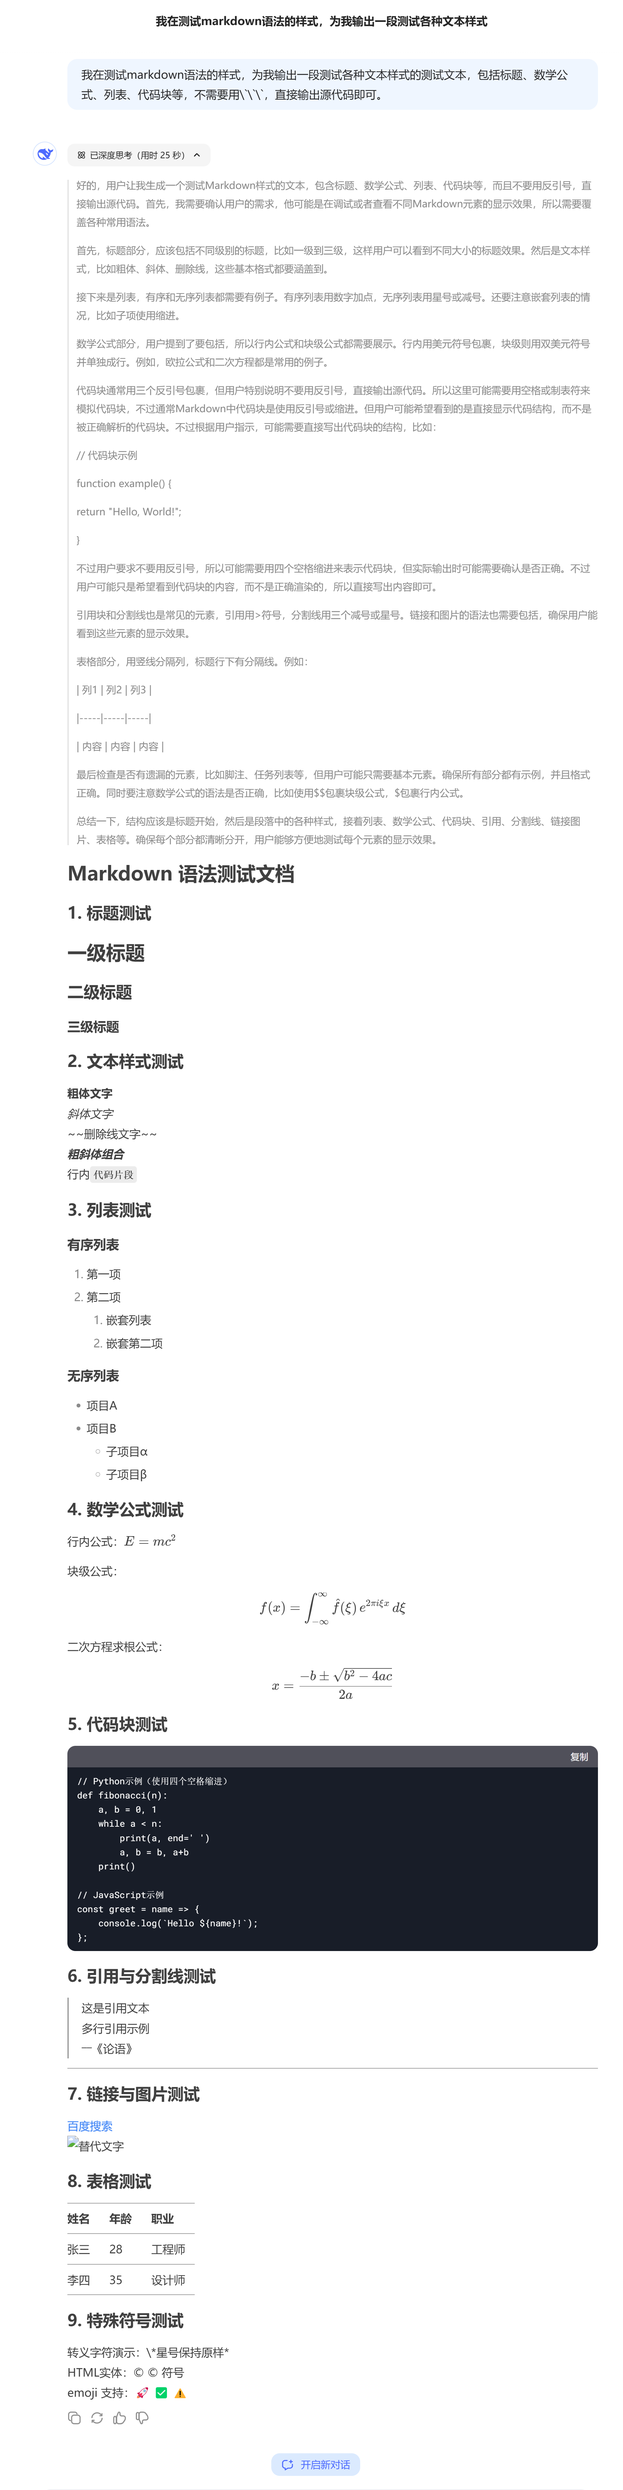
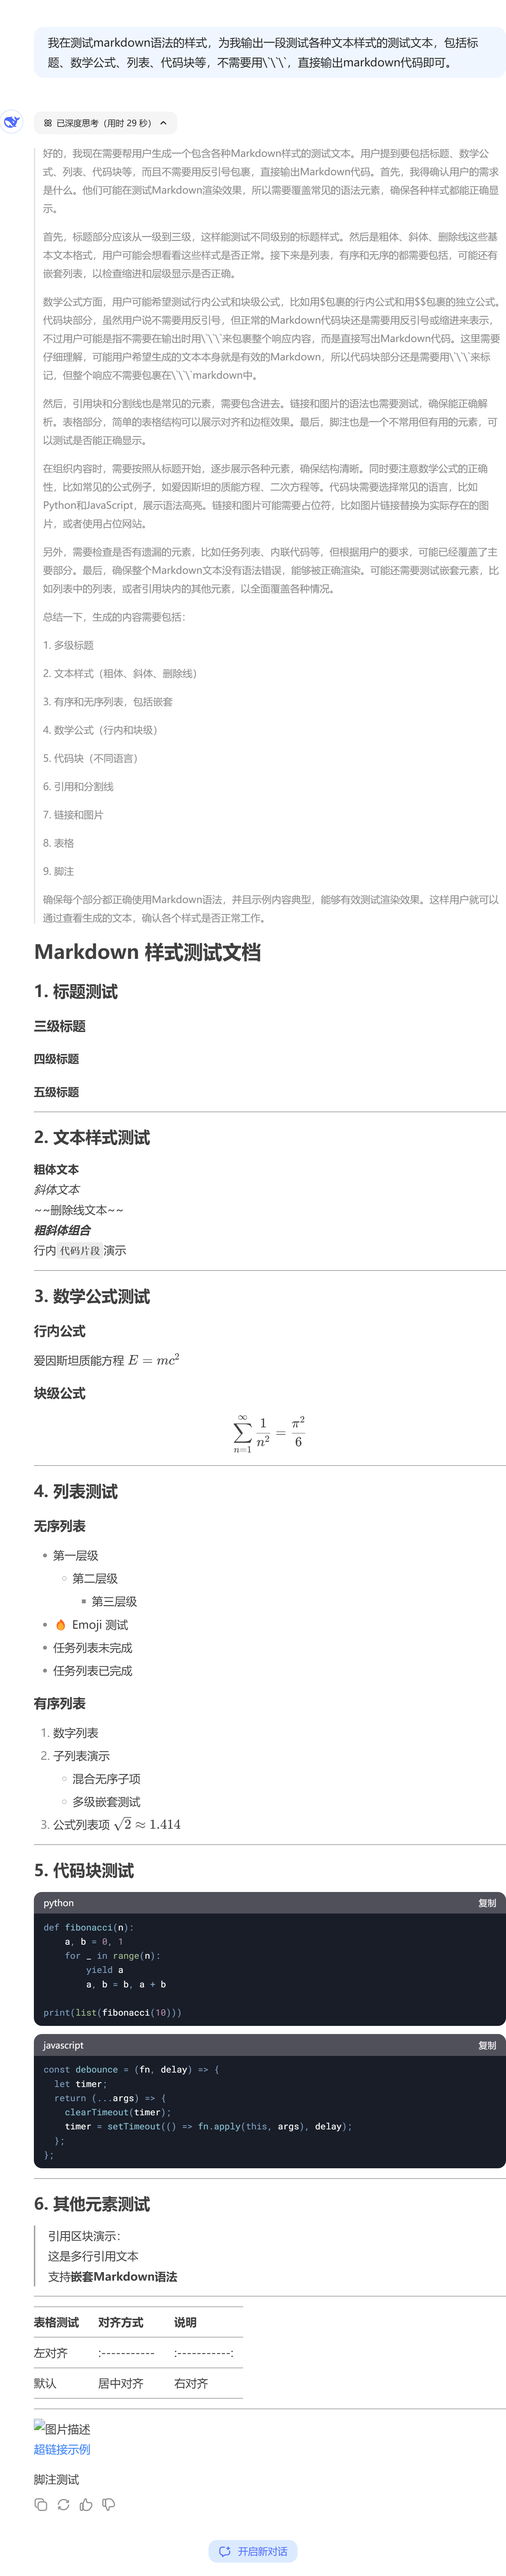
v0.1

Changed region(s): [[0.0614, 0.0, 1.0, 0.9674], [0.4909, 0.9674, 0.583, 0.9986], [0.3989, 0.9674, 0.4603, 0.9986]]

diff --git a/src/content.js b/src/content.js
@@ -52,24 +52,32 @@ function extractThinkingChain(node) {
 }
 
 // 提取AI回答的内容
-function resolveTag_p(node) {
+function resolveTag_text(node) {
     let content = '';
     node.childNodes.forEach((childNode) => {
         if (childNode.nodeType === Node.TEXT_NODE) {
             content += childNode.textContent.trim();
-        } 
-        else if (childNode.classList && childNode.classList.contains('katex')) {
-            const tex = childNode.querySelector('annotation[encoding="application/x-tex"]');
-            if (tex) {
-                content += `$${tex.textContent.trim()}$`;
+        }
+        else if (childNode.tagName === 'P') {
+            if (childNode.childNodes.length > 1) {
+                content += resolveTag_text(childNode)
+            } else {
+                content += childNode.textContent.trim();
             }
-        } 
+        }
         else if (childNode.tagName === 'STRONG') {
-            content += `**${childNode.textContent.trim()}**`;
-        } 
+            if (childNode.childNodes.length > 1) {
+                content += resolveTag_text(childNode)
+            } else {
+                content += `**${childNode.textContent.trim()}**`;
+            }
+        }
+        else if (childNode.tagName === 'CODE') {
+            content += `\`${childNode.textContent.trim()}\``;
+        }
         else if (childNode.tagName === 'EM') {
             content += `*${childNode.textContent.trim()}*`;
-        } 
+        }
         else if (childNode.tagName === 'A') {
             const href = childNode.getAttribute('href');
             content += `[${childNode.textContent.trim()}](${href})`;
@@ -77,9 +85,16 @@ function resolveTag_p(node) {
         else if (childNode.tagName === 'BR') {
             content += '\n';
         }
-        else if (childNode.tagName === 'CODE') {
-            content += `\`${childNode.textContent.trim()}\``;
-        } 
+        else if (childNode.tagName === 'IMG') {
+            const src = childNode.getAttribute('src');
+            content += `![${childNode.getAttribute('alt')}](${src})`;
+        }
+        else if (childNode.classList && childNode.classList.contains('katex')) {
+            const tex = childNode.querySelector('annotation[encoding="application/x-tex"]');
+            if (tex) {
+                content += `$${tex.textContent.trim()}$`;
+            }
+        }
         else if (childNode.nodeType === Node.ELEMENT_NODE) {
             content += childNode.textContent.trim();
         }
@@ -97,57 +112,91 @@ function resolveTag_pre(preElement, language = 'python') {
     return markdownCodeBlock;
 }
 
-// ! 这段代码有问题，暂时不用，有空再修复。。。
+function resolveTag_table(tableElement) {
+    let markdown = '';
+
+    // 1. 处理表头
+    const headerRow = tableElement.querySelector('thead tr');
+    if (headerRow) {
+        const headers = Array.from(headerRow.querySelectorAll('th')).map(
+            (th) => th.textContent.trim()
+        );
+        markdown += `| ${headers.join(' | ')} |\n`; // 表头行
+        markdown += `| ${headers.map(() => '---').join(' | ')} |\n`; // 分隔行
+    }
+
+    // 2. 处理表格内容
+    const bodyRows = tableElement.querySelectorAll('tbody tr');
+    bodyRows.forEach((row) => {
+        const cells = Array.from(row.querySelectorAll('td')).map((td) =>
+            td.textContent.trim()
+        );
+        markdown += `| ${cells.join(' | ')} |\n`; // 数据行
+    });
+
+    return markdown.trim(); // 去除末尾换行
+}
+
 function resolveTag_ul_li(node) {
     let markdown = '';
 
     // 递归处理子节点
-    function processNode(node) {
-        if (node.nodeType === Node.TEXT_NODE) {
-            // 文本节点直接返回内容
-            return node.textContent.trim();
-        } else if (node.nodeType === Node.ELEMENT_NODE) {
-            // 处理元素节点
-            const tagName = node.tagName.toLowerCase();
-            const children = Array.from(node.childNodes);
+    function processNode(element, depth = 0) {
+        // 用于存储最终的 Markdown 内容
+        let markdown = '';
 
-            switch (tagName) {
-                case 'ol':
-                    let olContent = '';
-                    children.forEach((child, index) => {
-                        if (child.tagName && child.tagName.toLowerCase() === 'li') {
-                            olContent += `${index + 1}. ${processNode(child)}\n`;
+        // UL 标签
+        if (element.tagName === 'UL') {
+            // 遍历 <ul> 或 <ol> 的子元素
+            for (let child of element.children) {
+                if (child.tagName === 'LI') {
+                    // 获取当前层级的缩进空格
+                    let indent = ' '.repeat(depth * 4);
+                    // 获取 <li> 内的文本内容
+                    child.childNodes.forEach((childNode) => {
+                        if (childNode.tagName === 'P') {
+                            markdown += `${indent}- ${resolveTag_text(childNode)}\n`;
+                        }
+                        else if (childNode.classList.contains('md-code-block')) {
+                            codeblock = resolveTag_pre(childNode.querySelector('pre'), childNode.querySelector('.md-code-block-infostring').textContent.trim());
+                            codeblock = codeblock.replaceAll('\n', `\n${indent}`);
+                            markdown += `${indent}${codeblock}\n`;
                         }
                     });
-                    console.log('olcontent', olContent);
-                    return olContent;
-                case 'ul':
-                    let ulContent = '';
-                    children.forEach((child) => {
-                        if (child.tagName && child.tagName.toLowerCase() === 'li') {
-                            ulContent += `- ${processNode(child)}\n`;
-                        }
-                    });
-                    console.log('ulcontent', ulContent);
-                    return ulContent;
-                case 'li':
-                    return children.map((child) => processNode(child)).join('');
-                case 'p':
-                    return children.map((child) => processNode(child)).join('') + '\n\n';
-                case 'strong':
-                    return `**${children.map((child) => processNode(child)).join('')}**`;
-                case 'br':
-                    return '\n';
-                case 'code': 
-                    return `\`${node.textContent.trim()}\``;
-                case 'pre':
-                    return resolveTag_pre(node);
-                default:
-                    // 其他元素（如 span）直接处理其子节点
-                    return children.map((child) => processNode(child)).join('');
+
+                    let nestedList = child.querySelector('ul, ol');
+                    if (nestedList) {
+                        markdown += processNode(nestedList, depth + 1);
+                    }
+                }
             }
         }
-        return '';
+        else if (element.tagName === 'OL') {
+            // 遍历 <ul> 或 <ol> 的子元素
+            for (let child of element.children) {
+                if (child.tagName === 'LI') {
+                    // 获取当前层级的缩进空格
+                    let indent = ' '.repeat(depth * 4);
+                    // 获取 <li> 内的文本内容
+                    child.childNodes.forEach((childNode) => {
+                        if (childNode.tagName === 'P') {
+                            markdown += `${indent}1. ${resolveTag_text(childNode)}\n`;
+                        }
+                        else if (childNode.classList.contains('md-code-block')) {
+                            codeblock = resolveTag_pre(childNode.querySelector('pre'), childNode.querySelector('.md-code-block-infostring').textContent.trim());
+                            codeblock = codeblock.replaceAll('\n', `\n${indent}`);
+                            markdown += `${indent}${codeblock}\n`;
+                        }
+                    });
+
+                    let nestedList = child.querySelector('ul, ol');
+                    if (nestedList) {
+                        markdown += processNode(nestedList, depth + 1);
+                    }
+                }
+            }
+        }
+        return markdown;
     }
     // 开始处理根节点
     markdown = processNode(node);
@@ -169,37 +218,42 @@ function extractFinalAnswer(node) {
         .ds-markdown--block>blockquote,\
         .ds-markdown--block>ol,\
         .ds-markdown--block>ul,\
+        .ds-markdown--block>table,\
         .katex-display.ds-markdown-math, \
         hr');
 
     elements.forEach((element) => {
         if (element.tagName.toLowerCase() === 'p') {
-            answerContent += resolveTag_p(element);
+            answerContent += resolveTag_text(element);
             answerContent += '\n\n';
         }
         else if (element.tagName.toLowerCase() === 'h1') {
-            answerContent += `# ${element.textContent.trim()}\n\n`;
+            answerContent += `# ${resolveTag_text(element)}\n\n`;
         }
         else if (element.tagName.toLowerCase() === 'h2') {
-            answerContent += `## ${element.textContent.trim()}\n\n`;
+            answerContent += `## ${resolveTag_text(element)}\n\n`;
         }
         else if (element.tagName.toLowerCase() === 'h3') {
-            answerContent += `### ${element.textContent.trim()}\n\n`;
+            
+            answerContent += `### ${resolveTag_text(element)}\n\n`;
         }
         else if (element.tagName.toLowerCase() === 'h4') {
-            answerContent += `#### ${element.textContent.trim()}\n\n`;
+            answerContent += `#### ${resolveTag_text(element)}\n\n`;
         }
         else if (element.tagName.toLowerCase() === 'h5') {
-            answerContent += `##### ${element.textContent.trim()}\n\n`;
+            answerContent += `##### ${resolveTag_text(element)}\n\n`;
         }
         else if (element.tagName.toLowerCase() === 'hr') {
             answerContent += '\n---\n';
         }
         else if (element.tagName.toLowerCase() === 'blockquote') {
-            answerContent += `> ${resolveTag_p(element.querySelector('p'))}\n\n`;
+            answerContent += `> ${resolveTag_text(element.querySelector('p'))}\n\n`;
         }
         else if (element.tagName.toLowerCase() === 'ul' || element.tagName.toLowerCase() === 'ol') {
             answerContent += `${resolveTag_ul_li(element)}\n\n`;
+        }
+        else if (element.tagName.toLowerCase() === 'table') {
+            answerContent += `${resolveTag_table(element)}\n\n`;
         }
         else if (element.classList.contains('katex-display')) {
             const tex = element.querySelector('annotation[encoding="application/x-tex"]');

diff --git a/README-en.md b/README-en.md
@@ -65,8 +65,9 @@ v0.1
 - [x] Optimize the markdown text formatting
 - [x] Choose whether or not to export the thought chain
 - [x] Optimizing styles for code export
-- [ ] Optimizing export styles for multi-level lists
-- [ ] upport for exporting tables
+- [x] Support for exporting tables
+- [x] Support for exporting images
+- [x] Optimizing export styles for multi-level lists
 
 ## Feedback and contribution
 

diff --git a/README.md b/README.md
@@ -65,8 +65,9 @@ v0.1
 - [x] 导出markdown文本格式优化
 - [x] 可选择是否导出思维链
 - [x] 优化代码导出样式
-- [ ] 优化多层列表的导出样式
-- [ ] 支持导出表格
+- [x] 支持导出表格
+- [x] 支持导出图片
+- [x] 优化多层列表的导出样式
 
 ## 反馈与贡献
 
